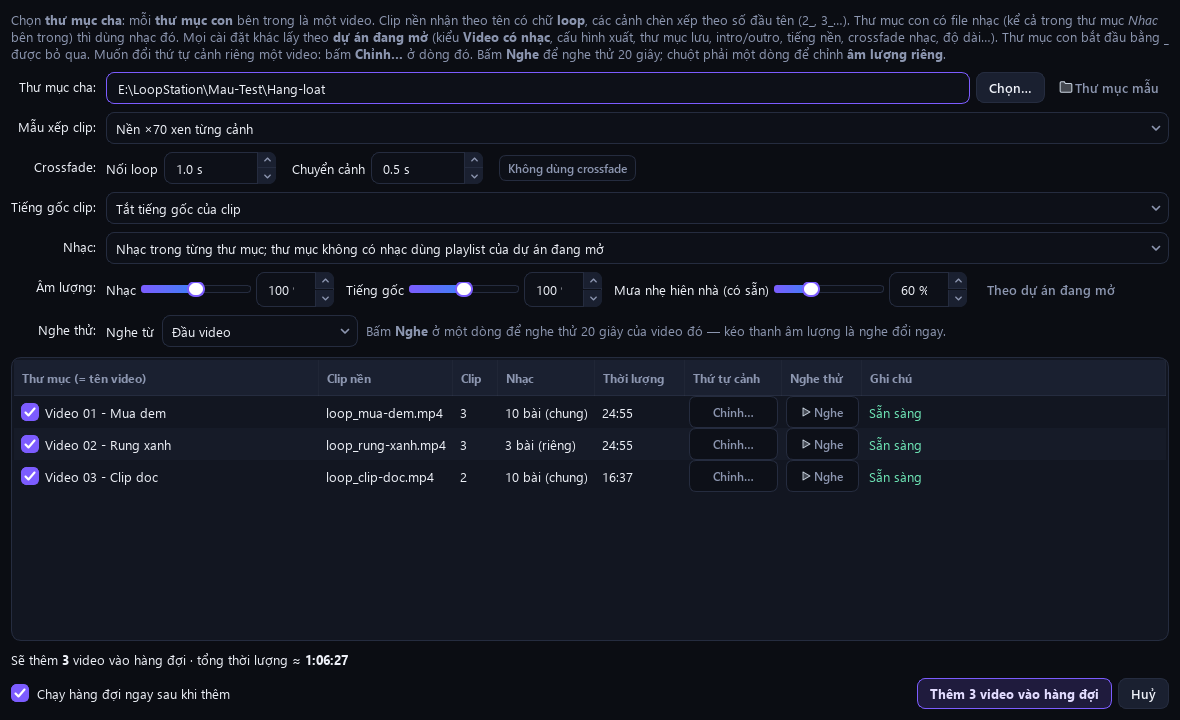
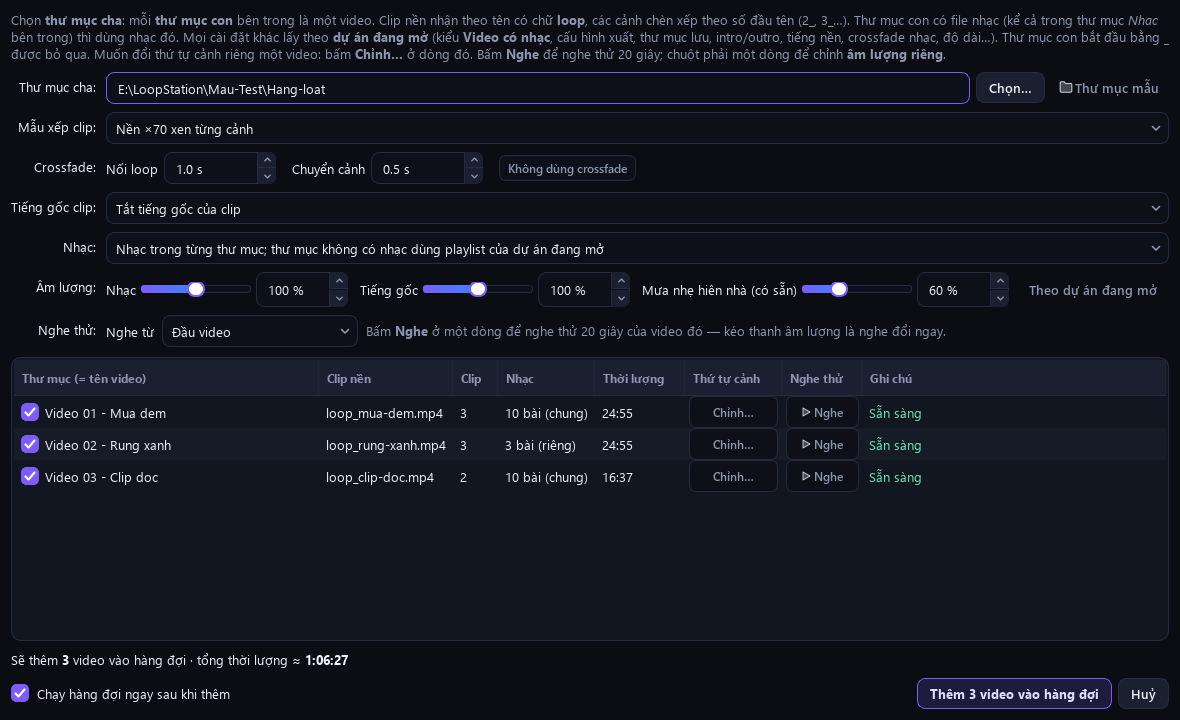
README: trình bày lại cho đẹp (đầu trang căn giữa, huy hiệu, lưới tính năng có biểu tượng, 3 bước cài, phần chi tiết thu gọn); ảnh màn hình 1.4.7

Changed region(s): [[0.4576, 0.3667, 0.7322, 0.4278], [0.7627, 0.3667, 0.9763, 0.4278], [0.2441, 0.3667, 0.4271, 0.4278]]

diff --git a/tests/make_readme_icons.py b/tests/make_readme_icons.py
@@ -1,0 +1,24 @@
+"""Xuất biểu tượng của app (bộ icon duotone trong loopstation/ui/icons.py) ra PNG cho README.
+
+python tests/make_readme_icons.py   → docs/icons/*.png
+"""
+import os
+import sys
+from pathlib import Path
+
+ROOT = Path(__file__).resolve().parents[1]
+OUT = ROOT / "docs" / "icons"
+OUT.mkdir(parents=True, exist_ok=True)
+os.environ["QT_QPA_PLATFORM"] = "offscreen"
+sys.path.insert(0, str(ROOT))
+
+from PySide6.QtWidgets import QApplication  # noqa: E402
+
+app = QApplication([])
+from loopstation.ui import icons  # noqa: E402
+
+ICONS = {"film": "#a78bfa", "repeat": "#f472b6", "music": "#c4b5fd", "waves": "#22d3ee", "sliders": "#fbbf24",
+         "zap": "#34d399", "queue": "#60a5fa", "folder": "#fbbf24", "file_plus": "#93c5fd", "eye": "#f9a8d4"}
+for name, color in ICONS.items():
+    icons.icon(name, 96, color).pixmap(96, 96).save(str(OUT / f"{name}.png"))
+print("Đã lưu", len(ICONS), "biểu tượng vào", OUT)

diff --git a/tests/make_screenshots.py b/tests/make_screenshots.py
@@ -52,7 +52,9 @@ p = Project.load(str(ROOT / "Mau-Test" / "Du-an-mau - Loop 70 lan.lsproj"))
 p.music.ambient = [AmbientLayer("builtin:rain_light", volume=60)]
 win.load_project(p)
 win.go_to(0)
-wait(2.5)
+wait(8)  # đợi tạo xong tiếng nền có sẵn (không còn dòng “Đang tạo tiếng nền…” trong ảnh)
+win.recompute()
+wait(2)
 win.grab().save(str(OUT / "02-video.png"))
 win.go_to(1)
 wait(1.5)

diff --git a/README.md b/README.md
@@ -1,90 +1,164 @@
-<img src="loopstation/ui/assets/logo-512.png" width="96" align="left" style="margin-right:12px">
-KT Loop Station 
+<div align="center">
 
-*By Khánh Trà*
+<img src="loopstation/ui/assets/logo-512.png" width="128" alt="Logo KT Loop Station">
 
-<br clear="left">
+# KT Loop Station
 
-Ứng dụng Windows ghép và loop các clip ngắn (ví dụ clip tạo bằng Google Flow) cùng playlist nhạc thành **video YouTube dài hàng giờ**: clip nền lặp 70 lần xen kẽ các cảnh, nhạc tự lặp theo độ dài video, thêm tiếng mưa / sóng / lửa… Xuất nhanh bằng card đồ hoạ NVIDIA / Intel / AMD, giao diện tiếng Việt.
+**Ghép và loop clip + nhạc thành video YouTube dài hàng giờ — chỉ vài cú kéo thả.**
 
-<p align="center">
-  <a href="https://github.com/trakhanh/Auto-Loop/releases/latest/download/KTLoopStation-Setup.exe">
-    <img src="docs/download-button.svg" alt="Tải về KT Loop Station cho Windows" width="480">
-  </a>
-  <br>
-  <sub>Bấm nút để tải bộ cài · <a href="https://github.com/trakhanh/Auto-Loop/releases">Xem các phiên bản cũ</a></sub>
-</p>
+<sub>By Khánh Trà · Ứng dụng Windows · Giao diện tiếng Việt</sub>
 
-## Cài đặt trong 3 bước
+<br>
 
-1. **Bấm nút "Tải về cho Windows"** ở trên. Trình duyệt tải về file `KTLoopStation-Setup.exe`.
-2. **Mở file vừa tải** (bấm vào file ở góc trình duyệt, hoặc mở thư mục *Downloads*).
-   Nếu Windows hiện khung xanh *"Windows protected your PC"*: bấm **More info** (Thông tin thêm) → **Run anyway** (Vẫn chạy).
-3. Bấm **Next → Install → Finish**. Mở app bằng biểu tượng **KT Loop Station** trên màn hình hoặc trong menu Start.
+[![Phiên bản mới nhất](https://img.shields.io/github/v/release/trakhanh/Auto-Loop?label=phi%C3%AAn%20b%E1%BA%A3n&color=8b5cf6&style=flat-square)](https://github.com/trakhanh/Auto-Loop/releases/latest)
+[![Lượt tải](https://img.shields.io/github/downloads/trakhanh/Auto-Loop/total?label=l%C6%B0%E1%BB%A3t%20t%E1%BA%A3i&color=3b82f6&style=flat-square)](https://github.com/trakhanh/Auto-Loop/releases)
+![Windows 10 | 11](https://img.shields.io/badge/Windows-10%20%7C%2011-0078D6?style=flat-square)
+![Tiếng Việt](https://img.shields.io/badge/giao%20di%E1%BB%87n-Ti%E1%BA%BFng%20Vi%E1%BB%87t-da251d?style=flat-square)
 
-> Không cần mật khẩu quản trị, không cần cài thêm gì. Đã có sẵn dự án mẫu để thử ngay ở màn hình **Bắt đầu**.
+<br>
 
-### Thông tin thêm
+<a href="https://github.com/trakhanh/Auto-Loop/releases/latest/download/KTLoopStation-Setup.exe">
+  <img src="docs/download-button.svg" alt="Tải về KT Loop Station cho Windows" width="480">
+</a>
 
-- Windows 10 / 11 64-bit. **Không cần quyền quản trị** (cài vào tài khoản đang dùng).
-- **Đã kèm sẵn FFmpeg** và một bộ **dự án mẫu** để thử ngay. Không cần cài thêm gì.
-- Card đồ hoạ NVIDIA / Intel / AMD giúp xuất nhanh hơn nhiều; không có card thì app tự dùng CPU.
-- Windows có thể hiện cảnh báo *"Windows protected your PC"* vì bộ cài chưa ký số: bấm **More info → Run anyway**.
-- Gỡ cài đặt: *Settings → Apps → KT Loop Station → Uninstall*. Dự án tự lưu, hàng đợi và bộ nhớ đệm nằm ở `%LOCALAPPDATA%\KTLoopStation`.
+<sub>Bấm nút để tải bộ cài · <a href="https://github.com/trakhanh/Auto-Loop/releases">Xem các phiên bản cũ</a></sub>
 
-## Ảnh màn hình
+<br><br>
 
-| Màn hình Bắt đầu | Trang Video |
-|---|---|
-| ![Bắt đầu](docs/screenshots/01-bat-dau.png) | ![Video](docs/screenshots/02-video.png) |
-| **Trang Nhạc + Bảng trộn âm** | **Trang Xuất** |
-| ![Nhạc](docs/screenshots/03-nhac-bang-tron-am.png) | ![Xuất](docs/screenshots/04-xuat.png) |
+<img src="docs/screenshots/02-video.png" width="900" alt="Giao diện KT Loop Station">
 
-![Xuất hàng loạt](docs/screenshots/05-hang-loat.png)
+</div>
+
+<br>
 
 ## Làm được gì
 
-**Ba kiểu sản phẩm** (chọn ở thanh trên cùng):
+<table>
+<tr>
+<td width="33%" valign="top">
+<img src="docs/icons/film.png" width="36"><br>
+<b>Loop clip thành video dài</b><br>
+Mỗi clip phát <code>70</code> lần, ngẫu nhiên <code>50-80</code>, hoặc cho đủ <code>10p</code> / <code>3:00:00</code>. Cắt đoạn, crossfade, Intro / Outro.
+</td>
+<td width="33%" valign="top">
+<img src="docs/icons/repeat.png" width="36"><br>
+<b>Xen kẽ clip nền tự động</b><br>
+Đặt tên <code>loop_…</code> cho clip nền, <code>2_…</code>, <code>3_…</code> cho các cảnh → app tự xếp <i>nền → cảnh → nền…</i>
+</td>
+<td width="33%" valign="top">
+<img src="docs/icons/music.png" width="36"><br>
+<b>Nhạc tự lặp theo video</b><br>
+Playlist lặp đủ độ dài, chuẩn hoá -14 LUFS, crossfade giữa bài, ghim bài. Hoặc xuất riêng file nhạc dài, nhiều bản khác thứ tự.
+</td>
+</tr>
+<tr>
+<td valign="top">
+<img src="docs/icons/waves.png" width="36"><br>
+<b>Tiếng nền có sẵn</b><br>
+Mưa rào, mưa hiên nhà, sóng biển, gió, lửa củi, white / pink / brown noise — app tự tạo, lặp liền mạch. Làm được cả file ASMR 8 tiếng.
+</td>
+<td valign="top">
+<img src="docs/icons/sliders.png" width="36"><br>
+<b>Bảng trộn âm + nghe thử</b><br>
+Chỉnh to / nhỏ nhạc, tiếng gốc, từng lớp tiếng nền, từng bài. Nghe thử 20 giây — kéo thanh là nghe đổi ngay.
+</td>
+<td valign="top">
+<img src="docs/icons/zap.png" width="36"><br>
+<b>Xuất nhanh bằng card đồ hoạ</b><br>
+NVIDIA / Intel / AMD (không có card thì dùng CPU). Video 10 tiếng chỉ vài phút. Dự đoán dung lượng trước khi xuất.
+</td>
+</tr>
+<tr>
+<td valign="top">
+<img src="docs/icons/queue.png" width="36"><br>
+<b>Hàng đợi qua đêm</b><br>
+Xếp nhiều video rồi để máy xuất lần lượt; máy không tự ngủ, có thể tự tắt máy khi xong.
+</td>
+<td valign="top">
+<img src="docs/icons/folder.png" width="36"><br>
+<b>Xuất hàng loạt theo thư mục</b><br>
+Mỗi thư mục con thành một video, chỉnh riêng thứ tự cảnh / âm lượng từng video, nghe thử từng dòng.
+</td>
+<td valign="top">
+<img src="docs/icons/file_plus.png" width="36"><br>
+<b>File kèm cho YouTube &amp; editor</b><br>
+Tracklist (dán làm Chapters), mốc thời gian đoạn LOOP / THƯỜNG (<code>.txt .csv .srt</code>, marker DaVinci <code>.edl</code>).
+</td>
+</tr>
+</table>
 
-| Kiểu | Kết quả |
-|---|---|
-| **Video có nhạc** | `.mp4`: clip loop + playlist nhạc tự lặp theo độ dài video |
-| **Chỉ video** | `.mp4`: chỉ loop clip, giữ tiếng gốc và / hoặc thêm tiếng nền (mưa, sóng…) |
-| **Chỉ nhạc** | `.mp3 / .m4a / .flac / .wav`: playlist lặp đủ thời lượng, xuất được nhiều bản khác thứ tự; hoặc chỉ tiếng nền (ASMR, white noise) |
+<br>
 
-**Video**
-- Số lần phát mỗi clip: `70` lần, `50-80` ngẫu nhiên, hoặc theo thời lượng `10p` / `1:30:00`.
-- **Xen kẽ clip nền** tự động theo tên file: `loop…` là nền; `2_…`, `3_…` là các cảnh. Có mẫu dựng sẵn, lặp cả mẫu N lượt.
-- Cắt lấy đoạn giữa clip, crossfade giữa các lần loop / giữa các cảnh, Intro / Outro cố định.
-- **Màu & Logo**: bộ màu có sẵn (ấm, lạnh, điện ảnh, đen trắng…) và đóng logo PNG.
-- Clip khác tỉ lệ: viền đen / nền mờ / cắt cho đầy khung.
+## Cài đặt trong 3 bước
 
-**Nhạc & âm thanh**
-- Playlist theo thứ tự hoặc ngẫu nhiên không lặp bài liền nhau; ghim bài luôn có trong file.
-- Chuẩn hoá độ to về -14 LUFS (chuẩn YouTube), crossfade giữa bài, to dần / nhỏ dần.
-- **Thư viện tiếng nền có sẵn** do app tự tạo: mưa rào, mưa hiên nhà, sóng biển, gió, lửa củi, white / pink / brown noise. Chỗ lặp được hoà mượt.
-- **Bảng trộn âm** dùng chung cả 3 kiểu: âm lượng nhạc, tiếng gốc clip và từng lớp tiếng nền, cộng âm lượng riêng từng bài. Có nút **Nghe thử 20 giây**; đang nghe mà kéo thanh là nghe đổi ngay.
+<table>
+<tr>
+<td width="33%" valign="top" align="center">
+<h1>①</h1>
+<b>Bấm nút “Tải về cho Windows”</b><br>
+<sub>Trình duyệt tải file <code>KTLoopStation-Setup.exe</code> (~190 MB).</sub>
+</td>
+<td width="33%" valign="top" align="center">
+<h1>②</h1>
+<b>Mở file vừa tải</b><br>
+<sub>Nếu hiện khung xanh <i>“Windows protected your PC”</i>: bấm <b>More info</b> → <b>Run anyway</b>.</sub>
+</td>
+<td width="33%" valign="top" align="center">
+<h1>③</h1>
+<b>Next → Install → Finish</b><br>
+<sub>Mở app bằng biểu tượng <b>KT Loop Station</b> trên màn hình hoặc menu Start.</sub>
+</td>
+</tr>
+</table>
 
-**Xuất**
-- Mã hoá bằng NVENC / Quick Sync / AMF hoặc CPU. Khối giống nhau chỉ mã hoá một lần rồi ghép, nên video 10 tiếng vẫn nhanh.
-- Dự đoán dung lượng trước khi xuất; giới hạn theo bitrate hoặc theo dung lượng tối đa (GB).
-- File kèm: tracklist (dán làm YouTube Chapters), mốc thời gian cho editor (`.txt / .csv / .srt` và marker DaVinci `.edl`), bản sao dự án.
-- **Hàng đợi** chạy nhiều dự án liền nhau (giữ máy không ngủ, có thể tự tắt máy khi xong).
-- **Xuất hàng loạt theo thư mục**: mỗi thư mục con thành một video. Có chỉnh thứ tự cảnh và âm lượng riêng từng video, nghe thử từng dòng.
+> [!TIP]
+> Không cần mật khẩu quản trị, không cần cài thêm gì (đã kèm sẵn FFmpeg). Có sẵn **dự án mẫu** ở màn hình **Bắt đầu** để bấm thử ngay.
 
-Hướng dẫn chi tiết từng chức năng có ngay trong app: **Hướng dẫn** ở thanh bên hoặc phím **F1**.
+<details>
+<summary><b>Thông tin thêm</b> (yêu cầu máy, gỡ cài đặt, dữ liệu lưu ở đâu)</summary>
 
-## Dùng nhanh
+<br>
 
-1. **Video**: kéo thả clip hoặc cả thư mục vào bảng, đặt số lần phát (có clip `loop…` thì bấm **Xen kẽ clip nền**).
-2. **Nhạc**: kéo thả bài nhạc; nhạc tự lặp theo độ dài video. Thêm tiếng nền, chỉnh **Bảng trộn âm** rồi bấm **Nghe thử 20 giây**.
-3. **Xuất**: chọn thư mục lưu → **Bắt đầu xuất**, hoặc **Thêm vào hàng đợi** để xuất nhiều video liền nhau.
+- Windows 10 / 11 64-bit. Cài vào tài khoản đang dùng, **không cần quyền quản trị**.
+- Card đồ hoạ NVIDIA / Intel / AMD giúp xuất nhanh hơn nhiều; không có card thì app tự dùng CPU.
+- Cảnh báo *“Windows protected your PC”* xuất hiện vì bộ cài chưa ký số — bấm **More info → Run anyway** để cài.
+- Cài bản mới đè lên bản cũ được; dự án và hàng đợi được giữ nguyên.
+- Gỡ cài đặt: *Settings → Apps → KT Loop Station → Uninstall*.
+- Dự án tự lưu, hàng đợi, bộ nhớ đệm nằm ở `%LOCALAPPDATA%\KTLoopStation`.
 
-Muốn thử ngay: màn hình **Bắt đầu** → *Mẫu: Loop 70 lần* hoặc *Mẫu: 3 tiếng*.
+</details>
 
----
+<br>
 
-## Dành cho người phát triển
+## Dùng thế nào
+
+| | Bước | Làm gì |
+|:-:|---|---|
+| **1** | **Video** | Kéo thả clip hoặc cả thư mục vào bảng, đặt số lần phát (có clip `loop…` thì bấm **Xen kẽ clip nền**). |
+| **2** | **Nhạc &amp; Nền** | Kéo thả bài nhạc — nhạc tự lặp theo độ dài video. Thêm tiếng mưa, chỉnh **Bảng trộn âm**, bấm **Nghe thử 20 giây**. |
+| **3** | **Xuất** | Chọn thư mục lưu → **Bắt đầu xuất**, hoặc **Thêm vào hàng đợi** để xuất nhiều video liền nhau. |
+
+Chọn kiểu sản phẩm ở thanh trên cùng: **Video có nhạc** (`.mp4`) · **Chỉ video** (`.mp4`, giữ tiếng gốc / thêm tiếng nền) · **Chỉ nhạc** (`.mp3 .m4a .flac .wav`). Hướng dẫn có ảnh minh hoạ từng bước nằm ngay trong app: **Hướng dẫn** ở thanh bên hoặc phím **F1**.
+
+<br>
+
+## Ảnh màn hình
+
+<table>
+<tr>
+<td width="50%"><img src="docs/screenshots/01-bat-dau.png"><p align="center"><sub><b>Màn hình Bắt đầu</b> — chọn việc muốn làm</sub></p></td>
+<td width="50%"><img src="docs/screenshots/03-nhac-bang-tron-am.png"><p align="center"><sub><b>Trang Nhạc</b> — playlist, Bảng trộn âm, nghe thử</sub></p></td>
+</tr>
+<tr>
+<td><img src="docs/screenshots/04-xuat.png"><p align="center"><sub><b>Trang Xuất</b> — chất lượng, dự đoán dung lượng, hàng đợi</sub></p></td>
+<td><img src="docs/screenshots/05-hang-loat.png"><p align="center"><sub><b>Xuất hàng loạt</b> — mỗi thư mục con một video</sub></p></td>
+</tr>
+</table>
+
+<br>
+
+<details>
+<summary><b>Dành cho người phát triển</b> (chạy từ mã nguồn, kiểm thử, cấu trúc)</summary>
 
 ### Chạy từ mã nguồn
 
@@ -104,28 +178,33 @@ python -m venv .venv
 python -m pytest -q tests
 ```
 
-Các script kiểm thử khác (đều dùng thư mục dữ liệu riêng, không đụng dữ liệu thật):
+Các script khác (đều dùng thư mục dữ liệu riêng, không đụng dữ liệu thật):
 
 | Lệnh | Việc |
 |---|---|
 | `python tests/render_check.py <thư_mục>` | Xuất thật 14 kịch bản rồi kiểm tra bằng ffprobe |
 | `python tests/ui_smoke.py <thư_mục>` | Chạy khắp giao diện (không hiện cửa sổ), bắt lỗi ngầm |
 | `python tests/batch_volume_check.py <thư_mục>` | Kiểm tra âm lượng / nghe thử trong Xuất hàng loạt |
-| `python tests/make_test_pack.py` | Tạo lại bộ mẫu `Mau-Test` (cần `numpy`) |
-| `python tests/make_samples.py` | Tạo lại clip / nhạc giả trong `samples/` |
-| `python tests/make_screenshots.py` | Chụp lại ảnh cho README |
+| `python tests/help_check.py <thư_mục>` | Kiểm tra trang Hướng dẫn (mọi chủ đề, ảnh, ô tìm, nút) |
+| `python tests/make_help_images.py` | Chụp lại ảnh đánh số cho trang Hướng dẫn |
+| `python tests/make_screenshots.py` · `make_readme_icons.py` | Ảnh màn hình / biểu tượng cho README |
+| `python tests/make_test_pack.py` · `make_samples.py` | Tạo lại media mẫu `Mau-Test/`, `samples/` |
 
 ### Cấu trúc
 
 ```
 app.py                  khởi động (màn hình chờ, chỉ mở 1 cửa sổ, ghi lỗi bất ngờ)
 loopstation/core/       xử lý: lập kế hoạch phát, dựng khối video / âm thanh, xuất, hàng đợi, hàng loạt…
-loopstation/ui/         giao diện PySide6 (các trang, Bảng trộn âm, hộp thoại)
-tests/                  kiểm thử + script kiểm tra / tạo mẫu
+loopstation/ui/         giao diện PySide6 (các trang, Bảng trộn âm, Hướng dẫn, hộp thoại)
+tests/                  kiểm thử + script kiểm tra / tạo ảnh / tạo mẫu
 Mau-Test/, samples/     media mẫu do script tự tạo (đi kèm bộ cài)
 SPEC.md                 đặc tả chi tiết
 ```
 
-## Giấy phép
+</details>
 
-Mã nguồn © Khánh Trà. Bộ cài kèm **FFmpeg** (bản dựng của gyan.dev, giấy phép GPL v3, xem `bin\FFmpeg-LICENSE.txt` sau khi cài).
+<br>
+
+<div align="center">
+<sub>Mã nguồn © Khánh Trà · Bộ cài kèm <b>FFmpeg</b> (bản dựng gyan.dev, giấy phép GPL v3 — xem <code>bin\FFmpeg-LICENSE.txt</code> sau khi cài)</sub>
+</div>
